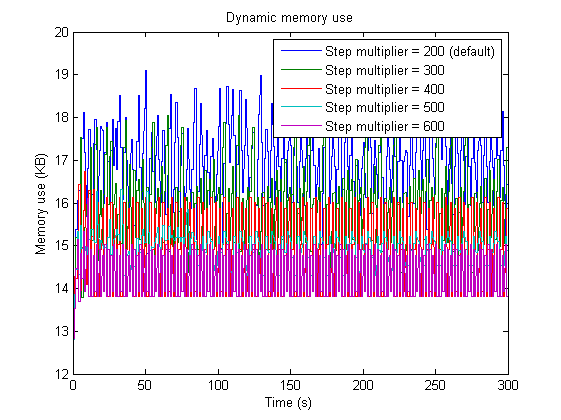
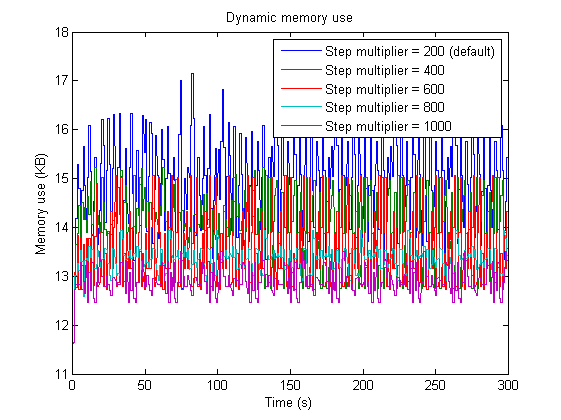
almost done with experimental work

diff --git a/experimental_work.tex b/experimental_work.tex
@@ -115,7 +115,7 @@ Now that we have a working runtime system with a few example state machine -base
 
 \subsection{The LM3S9D92 Microcontroller}
 \label{sec:microcontroller}
-The Stellaris LM3S9D92 is a microcontroller produced by Texas Instruments\footnote{\url{http://www.ti.com/product/lm3s9d92}}. It is considered outdated and \emph{``not recommended for new designs''}, but since the purpose of these experiments is to look into how our software performs in a resource-constrained environment, this is not a problem. The microcontroller was considered a \emph{``high performance microcontroller with large memory''}~\cite{website:stellaris_micro} when it was released, and has the following primary specifications:
+The Stellaris LM3S9D92 is a microcontroller produced by Texas Instruments\footnote{\url{http://www.ti.com/product/lm3s9d92}}. It is considered outdated and \emph{``not recommended for new designs''}, but since the purpose of these experiments is to look into how our software performs in a resource-constrained environment, this is not a problem. The microcontroller is considered a \emph{``high performance microcontroller with large memory''}~\cite{website:stellaris_micro}, roughly on par with microcontrollers like for example the Arduino Due. It has the following primary specifications:
 
 \begin{itemize}
 	\item 32-bit ARM Cortex-M3 processor
@@ -234,53 +234,150 @@ For comparison, we create a simple program performing roughly the same tasks as 
 
 \subsection{Results of the First Comparison}
 \label{sec:first_comparison}
-Figure~\ref{fig:memory_use_first} shows a graph representation of the memory used as a function of time. It is clear that the memory overhead of running this program as a state machine application is significant. The simple program uses only 14,8KB on average with a maximum of 17,3KB, while the state machine application uses 55,6KB of dynamic memory on average, with a maximum of over 66KB in this short period, almost 4 times as much. The high maximum is important to notice, because when we add the ``invisible'' overhead of eLua (27KB), the total dynamic memory in use is actually around 93KB, which is dangerously close to the total amount of dynamic memory available on the microcontroller, which is 96KB. Furthermore, the huge difference in average memory used implies that the overhead of the runtime system could be as high as 40KB, close to half of the available dynamic memory, regardless of which state machine application is implemented.
+Figure~\ref{fig:memory_use_first} shows a graph representation of the memory used as a function of time. It is clear that the memory overhead of running this program as a state machine application is significant. The simple program uses only 14,7KB on average with a maximum of 17,3KB, while the state machine application uses 55,6KB of dynamic memory on average, with a maximum of over 66KB in this short period, almost 4 times as much. The huge difference in average memory used implies that the overhead of the runtime system could be as high as 40KB, close to half of the available dynamic memory, regardless of which state machine application is implemented.
+
+Additionally, the high maximum value is worth noticing. In order to check the actual available dynamic memory, I reran the encapsulated version of the runtime system from Sect.~\ref{sec:impl_runtime_support} with the state machines for measuring and logging memory use\footnote{\url{https://github.com/Desarc/state_machine_rts/tree/master/mem-encap}}. Unsurprisingly the program did not run for very long before running out of memory, but the interesting part was that the memory readings it managed to log before stopping, indicated that the program ran out of memory at around 68KB. The last received reading was 63,8KB, but we should assume that memory use at the time of the ``crash'' was higher, and judging by the previous readings, an increase of 3-4KB in the short time period seems likely. This implies that the actual maximum limit for memory use is somewhere around 68KB (indicated by the magenta-colored line in Fig.~\ref{fig:memory_use_first}), meaning that a measured value of 66KB is a little too close to this limit for ``comfort''. The reason for this limit being around 68KB, which is quite far from the microcontroller capability of 96KB \gls{ram}, is likely that some of the memory is used for controlling I/O peripherals that are not part of eLua, such as the USB interface.
 
 \begin{figure}[htp]
 	\centering
 	\includegraphics[scale=0.90]{memory_use_first}
-	\caption[Result of first overhead comparison test]{Compared memory use of the test program running as a state machine application within the runtime system, and as a simple standalone program.}
+	\caption[Results of first memory overhead test]{Compared memory use of the test program running as a state machine application within the runtime system, and as a simple standalone program.}
 	\label{fig:memory_use_first}
 \end{figure}
 
 In order to justify the use of Lua state machine applications in embedded environments, we need to find out if it is possible to further reduce the memory overhead produced by the runtime system.
 
-\subsection{The Memory Optimized State Machine Runtime System}
-\label{sec:optimized_rts}
-Given the huge memory overhead observed during the testing in Sect.~\ref{sec:first_comparison}, we most likely have to make some drastic changes to the code of our runtime system. In Sect.~\ref{sec:memory_analysis}, various potential issues increasing dynamic memory use are discussed. The issue of closures has already been addressed, so the next step is to attempt more reuse of objects.
+\subsection{Further Optimizations of Memory Use}
+\label{sec:more_optimization}
+Given the huge memory overhead observed during the testing in Sect.~\ref{sec:first_comparison}, we most likely have to make some drastic changes to the code of our runtime system. In Sect.~\ref{sec:memory_analysis}, various potential issues increasing dynamic memory use are discussed. The issue of closures has already been addressed, so the next step to explore the other options.
 
 \paragraph{Reuse} During the lifetime of a state machine application, it is likely that a large number of timer and event objects will be created. As soon as the event or timer is consumed, it will likely be reclaimed by the garbage collector, but depending on the garbage collector's speed, this may not happen right away. Thus, we risk seeing temporary spikes in dynamic memory use, most likely similar to the spikes observed in Fig.~\ref{fig:memory_use_first}. As an alternative to this scheme, we can reduce the work that needs to be done by the garbage collector by reducing event and timer objects when creating new timers and events. The risk of seeing spikes is then probably reduced, however this is not likely to affect average memory use much. As a bonus, reusing events and timers is probably a little faster than instantiating new objects every time. It should be noted that the optimization gains from this approach depends on the state machine application being run. State machines that frequently consume one event and generates another save more than state machines that consume one event to generate many, which in turn may or may not generate new events.
 
 \paragraph{Strings} Another possible memory sink is the string concatenations performed by the message objects, as well as the state machine measuring memory use. These should however be the same for both test programs, since they send the same messages with an equal amount of data, but it is still worth looking into. Even if the relative difference in memory use may not be affected, we can still reduce average memory use for the runtime system. Depending on how fast these strings are reclaimed by the garbage collector, this reduction may be significant. The recommended approach is to use a table containing only the string values to be concatenated, and then use the \emph{table.concat} function. This should also give a significant performance increase for these tasks~\cite[Ch. 2]{book:lua_programming_gems}.
 
-\paragraph{Coroutines} 
+\paragraph{Coroutines} Since coroutines in Lua have their own stack, it is likely that events and timers passed between state machines and the scheduler will be created locally within each coroutine, and thus duplicated. In addition to temporarily using extra memory, this will reduce the effect we get from reusing event and timer objects. Also, using coroutines in itself likely creates some additional overhead, but this should not be significant.
+
+\paragraph{Garbage Collection} Tuning the garbage collector to be more aggressive is another way to reduce memory use, however this also happens at the cost of performance. However, looking at the results in Fig.~\ref{fig:memory_use_first}, the frequent maxima and minima as well as the large relative difference between them, imply that the garbage collector is already being quite aggressive. This also makes sense, considering the amount of new memory that is frequently allocated when new event and timer objects are created.
+
+eLua additionally offers another alternative for handling garbage collection in situations where the remaining available memory is low, namely the \gls{egc}. This tool allows Lua to run garbage collection in some situations where this is normally not possible, for example when we reach a certain memory limit~\cite{website:elua_egc}. While this can be useful for avoiding running out of memory when we're already close to the limit, it doesn't really solve our problem, and is best used for safety measures.
+
+\paragraph{\gls{ltr}} The people working on eLua recognize the need for memory-effective software in resource constrained environments, and have developed \gls{ltr} to improve the situation for eLua. \emph{``\gls{ltr} is a Lua patch that significantly decreases the \gls{ram} usage of Lua scripts, thus making it possible to run large Lua programs on systems with limited \gls{ram}''}~\cite{website:elua_ltr}. The website advertises that enabling the patch should reduce the eLua memory overhead from around 27KB to only 5.42KB on the LM3S platform, however at the cost of performance. Unfortunately, a quick test showed that the \gls{ltr} patch was already enabled for my build of eLua. While having this patch enabled when we're struggling with memory use is obviously a good thing, it also implies that without this specific patch for eLua, making our runtime system fit into the \gls{ram} of the microcontroller would have been much more difficult.
+
+\subsection{Measurements on the Optimized Runtime System}
+\label{sec:opt_rts}
+Considering the possibilities for further optimization discussed in Sect.~\ref{sec:more_optimization}, I decided to try a few different options, and see how they affected memory use. First, I changed all handling of string concatenation to the recommended approach with \emph{table.concat}. Next, I made state machines attempt reuse of event and timer objects whenever possible, creating new ones only when they had to. The full code for this optimized system is available on GitHub\footnote{\url{https://github.com/Desarc/state_machine_rts/tree/master/mem-opt}}. With some luck, these changes would significantly reduce and and stabilize memory use. Additionally, I created a version of the runtime system without coroutines\footnote{\url{https://github.com/Desarc/state_machine_rts/tree/master/no-coroutine}} as the way of handing execution control to a state machine, to see how much of an impact this would have on memory use.
+
+The results of running these optimized programs are displayed in Fig.~\ref{fig:memory_use_second}, and fortunately show some improvements. Some observations are listed below:
+
+\begin{itemize}
+	\item For the optimized system, average memory use has been reduced from 55,6KB to 48,3KB, and the maximum from 66KB to 55,7KB. This is an improvement of roughly 13\%, and puts us at a more comfortable distance from the maximum limit (indicated by the magenta line).
+	\item The optimized system without coroutines is slightly sparser, with an average memory use of 44,3KB.
+	\item With the same optimizations applied, the comparison program actually performs slightly worse on average, but the difference is very small.
+	\item Since fewer new objects are created (and fewer old ones are becoming obsolete), the garbage collector activity is significantly decreased, to the point where we can clearly see the garbage collection cycles. This likely gives a performance boost to our system, since normal execution will be interrupted less.
+	\item Average memory use is still more than 3 times higher for the state machine application.
+\end{itemize}
+
+\begin{figure}[htp]
+	\centering
+	\includegraphics[scale=0.90]{memory_use_second}
+	\caption[Results of second memory overhead test]{Compared memory use of the test program running as a state machine application within the optimized runtime system.}
+	\label{fig:memory_use_second}
+\end{figure}
+
+While we see a definite improvement over the initial system, the memory overhead is still quite high, and may potentially severely limit the types of applications we are able to develop. On the bright side, the decreased activity of the garbage collector gives us more room for tinkering with its parameters, with the potential of reducing average and peak memory use. The next section will explore these options further.
+
+\subsection{Tinkering With the Garbage Collector}
+\label{sec:gc_tinkering}
+The capabilities of the garbage collector in Lua are briefly discussed in Sect.~\ref{sec:memory_analysis} and ~\ref{sec:more_optimization}. Given the results observed in Sect.~\ref{sec:opt_rts}, it seems likely that by changing some of the garbage collectors parameters, we can make it more aggressive and hopefully reduce average memory use. In addition to the possibility for manual control (collect, stop, restart), the Lua garbage collector has two controllable parameters: step multiplier and pause~\cite[Ch. 2.10]{manual:lua_reference_manual}.
+
+\paragraph{Pause} The pause parameter decides how long the garbage collector should wait before starting a new collection cycle. Decreasing the parameter makes the garbage collector less aggressive, while increasing makes it more. The default value is 200, and values smaller than 100 means there is no pause. A quick check of this value in the context of eLua shows that it is already set to 110, which should make the garbage collector quite aggressive. It is therefore unlikely that we have much to gain from further decreasing its value.
+
+\paragraph{Step Multiplier} The step multiplier parameter roughly decides how much work the garbage collector does with each incremental step. This means that increasing its value makes the garbage collector more aggressive, and like the pause parameter its default value is 200. A quick check shows that this is also the default value used by eLua, meaning there could be potential for some gain by increasing it.
+
+\paragraph{Manual Control} While manual control has the potential to reduce memory use at the times when it's really needed, this probably requires knowledge of the specific application running within the runtime system, making it hard to know exactly when these times are. An option could be to experiment with the \gls{egc} mentioned in Sect.~\ref{sec:more_optimization}, but the results are hard to predict. Worst case, it actually provides us with more problems, such as getting stuck in an eternal loop of garbage collection.
+
+Running the optimized (with coroutines) memory-measurement application with different values for the step multiplier provides the results displayed in Fig.~\ref{fig:memory_use_opt}. Increasing the step multiplier from 200 to 600 decreases average memory use from 48,3KB to 42,5KB and peak memory use from 56KB to 45KB. Further increases of the step multiplier have a significantly smaller effect on the memory use, and we should keep in mind that performance decreases when the garbage collector has to do more work. Overall, dynamic memory use is a lot more stable, and we are getting a little closer to an acceptable amount of overhead. However, at this point I've run out of ideas on how to improve the runtime system further, so we have to accept a memory overhead of roughly 27KB for now.
+
+\begin{figure}[htp]
+	\centering
+	\includegraphics[scale=0.90]{memory_use_opt}
+	\caption[Results of tinkering with the garbage collector for the state machine application]{Compared memory use of the state machine system for different values of the garbage collector's step multiplier parameter.}
+	\label{fig:memory_use_opt}
+\end{figure}
+
+\subsection{Some Additional Notes on Memory Overhead}
+\label{sec:mem_overhead_notes}
+While the previous sections offer some insights into potential memory problems we may encounter with a Lua-based state machine system in an embedded environment, we should keep in mind that the tests and measurements performed are quite specific, and over a relatively short period of time. Results may vary depending on the actual application that is run within the context of the runtime system, and for a large number of applications, the added memory overhead is not likely to be a problem given that the memory use is fairly stable.
+
+However, the most important point to consider is probably that the runtime system used for these measurements is just the bare minimum that is required for functional use. With a more complete, production-quality system, we would probably like to add quite a few extra features to the runtime system, which may increase overhead with respect to both dynamic memory use and performance. We already experienced that a single concept such as encapsulation of object data increased memory use so dramatically that we would quickly run out, which implies that some of the additional features we might like in a production-quality system may not be achievable in this context.
+
+The specific application should also be considered when comparing to the test program running without a runtime system. In the tests performed in the previous sections, our application is very simple, meaning the relative memory overhead becomes quite big. In Sect.~\ref{sec:opt_rts}, we saw that the same optimizations applied to the test program did not improve memory usage, however there is likely to be more room for such optimizations in a more complex program. On the other hand, complex programs are generally more difficult to optimize, which speaks in favor of the state machine -based system. When developing with state machines, most of the optimization will be done in the runtime system, making things simpler for the application developer.
+
+There are some additional ways to reduce the memory overhead of our runtime system, but they require more advanced adaptations. The eLua FAQ suggests that we can precompile our Lua code to bytecode and build it directly into the \gls{rom} file system of eLua~\cite{website:elua_faq}. This is likely to provide significant results, since we may then put all our prototypes in \gls{rom}. However, if application developers want to put the prototypes for their state machines in \gls{rom}, this approach requires them to be able to build eLua, which may require a lot of extra work. Another option is to implement the memory-heavy parts of the runtime system in C. This is a likely solution for a production-quality system, but goes beyond the scope of this project.
 
 \FloatBarrier
-\section{Measurements of Performance Overhead}
-\begin{listing}[htp]
-\begin{luacode}
-local task_size = 10
-local task_repeats = 1
+\section{Performance Overhead of the Runtime System}
+\label{sec:performance_overhead}
+So far in our experiments, we have only considered how well our runtime system performs with respect to memory use. A lot of the steps that were taken to reduce memory overhead in Sect.~\ref{sec:memory_use} and~\ref{sec:memory_overhead_measure} are likely to decrease performance in our application, and it is probably a good idea to find out roughly how much. Additionally, like with memory, a speed comparison with a non state machine application to measure the performance overhead is appropriate. The following sections describe the results from these tests.
 
-local function busy_work()
-	for i=1,task_size do
-		q = i*i
-	end
-end
+\subsection{The Test Code}
+\label{sec:performance_test_code}
+There are many ways of measuring performance in software. A typical way is to run benchmarks with a set algorithms, but this is more suited for testing language implementations or hardware. Another approach is performance profiling, which may be done in Lua by use of the \emph{debug} and \emph{os} libraries, however since the \emph{os} library is not available on the microcontroller, this may prove difficult to achieve. Instead, we may use a simpler scheme: create a real or fictional task, such as the one used for memory overhead testing, and see how the runtime system performs compared to a non state machine program when running this task several times in succession. Additionally, we may do this for variable task sizes, to see how big the impact of the performance overhead is relative to how long it takes to perform the task. Using the simple task described in Code snip.~\ref{code:simple_task}, we design a state machine that continuously runs this task while measuring the time it takes between completions. The full code used for this test is available on GitHub\footnote{\url{https://github.com/Desarc/state_machine_rts/tree/master/calc-overhead-opt}}.
 
-local start_time = tmr.read(tmr.SYS_TIMER)
+\subsection{Measuring Performance Overhead of the Runtime System}
+\label{sec:performance_overhead_measure}
+Running the test code described in the previous section, we use values for task\_size ranging from 10 to 500000, and values for task\_repeats ranging from 1 to 500. Additionally, results are calculated by averaging the measurements from 10 runs for each set of parameters. Table~\ref{tab:task_size_time} gives an overview of how long it takes to run a task on the microcontroller, given the task\_size parameter.
 
-for j=1,task_repeats do
-	busy_work()
-end
+\begin{table}
+	\centering
+	\begin{tabulary}{\textwidth}{| C | C | C |}
+		\hline
+		task\_size & Time ($\mu$s) & Adjusted time ($\mu$s) \\
+		\hline
+		10 & 235 & 111 \\
+		\hline
+		50 & 623 & 498 \\
+		\hline
+		100 & 1108 & 983 \\
+		\hline
+		500 & 4963 & 4838 \\
+		\hline
+		1000 & 9781 & 9657 \\
+		\hline
+		5000 & 48363 & 48238 \\
+		\hline
+		10000 & 96578 & 96453 \\
+		\hline
+		50000 & 482358 & 482233 \\
+		\hline
+	\end{tabulary}
+	\caption{Values for task\_size and their respective execution times. The adjusted time represents the actual time the task takes, when we subtract the time it takes to read timer values, approximately 125 $\mu$s.}
+	\label{tab:task_size_time}
+\end{table}
 
-local delta = tmr.read(tmr.SYS_TIMER) - start_time
-print("Delta: "..tostring(delta))
-\end{luacode}
-	\caption{Lua code used for overhead testing}
-	\label{code:overhead}
-\end{listing}
+Comparing the results from running the state machine test application and the test program, we get the results displayed in Fig.~\ref{fig:performance_overhead_rel}. We see that for smallest tasks tested, the state machine application takes almost 5 times as long to complete the task. It is no surprise that the overhead is significant for small tasks. However, it is very surprising to see that for tasks bigger than approximately 1ms, the runtime system is actually more efficient. This seems impossible...
 
-\section{Measurements of Application Performance}
-\label{sec:performance_measure}
+TODO
+
+\begin{figure}[htp]
+	\centering
+	\includegraphics[scale=0.90]{performance_overhead_rel}
+	\caption[Results of performance overhead test, relative comparison]{Relative comparison of time spent running the simple task, where the value on the y-axis represents the time spent by the test program divided by the time spent by the state machine application.}
+	\label{fig:performance_overhead_rel}
+\end{figure}
+
+Adjusting the results for number of repeats and task size, we get the relative amount of overhead compared to the amount of useful work done. Figure~\ref{fig:performance_overhead_abs} shows the results of these computations. 
+
+
+\begin{figure}[htp]
+	\centering
+	\includegraphics[scale=0.90]{performance_overhead_abs}
+	\caption[Results of performance overhead test, absolute comparison]{Measurements of overhead time required when running the simple task, where the value on the y-axis represents the time spent on overhead by the runtime system for each 100$\mu$s of useful work.}
+	\label{fig:performance_overhead_abs}
+\end{figure}
+
+
+
+\subsection{Measuring Comparative Performance of the Optimized Runtime System}
+\label{sec:comp_performance_overhead}
 

diff --git a/glossary.tex b/glossary.tex
@@ -39,3 +39,7 @@
 \newacronym{os}{OS}{operating system}
 
 \newacronym{tcp}{TCP}{Transmission Control Protocol}
+
+\newacronym{ltr}{LTR}{Lua Tiny RAM}
+
+\newacronym{egc}{EGC}{Emergency Garbage Collector}

diff --git a/main.tex b/main.tex
@@ -6,7 +6,8 @@
 \usepackage[section]{minted}
 \usepackage{aeguill}
 \usepackage{placeins}
-\usepackage[T1]{fontenc}
+%\usepackage[T1]{fontenc}
+\usepackage{tabulary}
 
 \showboxdepth=5
 \showboxbreadth=5
